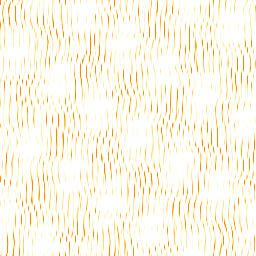
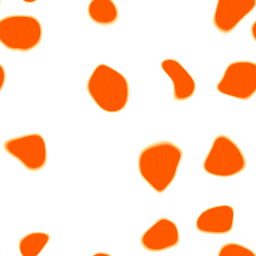
Add restrained Shipwreck floor puddle material

diff --git a/tools/materials/generate_material_maps.py b/tools/materials/generate_material_maps.py
@@ -595,6 +595,34 @@ def finish_at(name,u,v):
     return finish
 
 
+def wet_floor_film(u,v):
+    def random(x,y,salt):
+        value = (x*374761393+y*668265263+salt*2246822519)&0xffffffff
+        value = ((value^(value>>13))*1274126177)&0xffffffff
+        return ((value^(value>>16))&0xffff)/65535.
+    u += .04*noise(u,v,9)
+    v += .04*noise(u+.37,v+.59,9)
+    gx,gy = math.floor(u*4),math.floor(v*4)
+    film = 0.
+    for y in range(gy-1,gy+2):
+        for x in range(gx-1,gx+2):
+            cell_x,cell_y = x%4,y%4
+            if random(cell_x,cell_y,0) > .55:
+                continue
+            cx = (cell_x+.5+.75*(random(cell_x,cell_y,1)-.5))/4
+            cy = (cell_y+.5+.75*(random(cell_x,cell_y,2)-.5))/4
+            dx = (u-cx+.5)%1-.5
+            dy = (v-cy+.5)%1-.5
+            angle = 2*math.pi*random(cell_x,cell_y,3)
+            along = math.cos(angle)*dx+math.sin(angle)*dy
+            across = -math.sin(angle)*dx+math.cos(angle)*dy
+            radius_x = .055+.060*random(cell_x,cell_y,4)
+            radius_y = .040+.050*random(cell_x,cell_y,5)
+            distance = math.sqrt((along/radius_x)**2+(across/radius_y)**2)
+            film = max(film,min(1.,max(0.,(1.-distance)/.18)))
+    return film
+
+
 def raster(name,profile,width,height_px):
     normal,orm,mask = bytearray(),bytearray(),bytearray()
     for y in range(height_px):
@@ -615,12 +643,9 @@ def raster(name,profile,width,height_px):
             physical = surface not in ("flat","effect")
             normal.extend((byte(.5-dx/(2*length)),byte(.5-dy/(2*length)),byte(.5+1/(2*length)),255 if physical else 0))
             wet = 0.
-            if surface == "wood_floor":
-                ridge = max(0.,h-.12)**2
-                patch = .48+.28*math.sin(2*math.pi*(5*u+2*v))+.24*math.cos(2*math.pi*(3*v-2*u))
-                patch += .16*math.sin(2*math.pi*(13*v+u))
-                wet = min(1.,ridge*max(0.,patch)*4.0)
-                roughness = .85-.33*wet+.025*h
+            if surface == "wood_floor" and name in ("wood_floor","d03b01","d03b04"):
+                wet = wet_floor_film(u,v)
+                roughness = .85-.50*wet+.015*h
             elif surface == "stone" and (name in WET_ATLASES or any(inside(u*256,v*256,region) for region in WET_REGIONS.get(name,[]))):
                 patch = math.sin(2*math.pi*(3*u+.27*math.sin(2*math.pi*2*v))) + .55*math.cos(2*math.pi*(2*v-u))
                 wet = min(1.,max(0.,(patch-.12)*1.5))
@@ -734,7 +759,8 @@ def validate(files):
         if len(raw) != height*(width*4+1) or any(raw[y*(width*4+1)] != 0 for y in range(height)):
             raise ValueError(f"PNG raster mismatch: {name}")
         images[name] = width,height
-        if name in ("d03b07_normal.png","d03b07_orm.png","d03b07_regions.png"):
+        if name in ("d03b07_normal.png","d03b07_orm.png","d03b07_regions.png",
+                    "wood_floor_orm.png","d03b01_orm.png","d03b04_orm.png"):
             checked_rasters[name] = b"".join(raw[y*(width*4+1)+1:(y+1)*(width*4+1)] for y in range(height))
     references = set()
     def record(entry):
@@ -783,6 +809,17 @@ def validate(files):
     hatch_red = [sample("normal",x/256,y/256)[0] for y in range(136,248,4) for x in range(8,120,4)]
     if min(hatch_red) >= 127 or max(hatch_red) <= 128:
         raise ValueError("Corrosion detail must vary across both axes, not form brushed stripes")
+    for name in ("wood_floor","d03b01","d03b04"):
+        data = checked_rasters[name+"_orm.png"]
+        pixels = [data[i:i+4] for i in range(0,len(data),4)]
+        film = [pixel for pixel in pixels if pixel[3] >= 250]
+        dry = [pixel for pixel in pixels if pixel[3] <= 12]
+        if not .10 <= len(film)/len(pixels) <= .30 or len(dry)/len(pixels) < .60:
+            raise ValueError(f"{name}: wet film must form sparse islands")
+        if any(pixel[2] != 0 for pixel in pixels):
+            raise ValueError(f"{name}: floor film must stay dielectric")
+        if not all(75 <= pixel[1] <= 110 for pixel in film) or not all(205 <= pixel[1] <= 230 for pixel in dry):
+            raise ValueError(f"{name}: puddles and dry timber require distinct roughness")
 
 
 def main():

diff --git a/docs/ENHANCED_LIGHTING_STATUS.md b/docs/ENHANCED_LIGHTING_STATUS.md
@@ -12,7 +12,7 @@ The executable-relative `assets/materials` package contains 702 original RGBA8 P
 
 Texture fingerprints select the correct material maps when names are reused by different dungeon or boss atlases. Unknown fingerprints are reported as unresolved rather than silently inheriting another variant. The audited resource union includes all front/back Shipwreck and Gallery enemy placement sets, environment packs and boss variants, the six playable character sets and 111 existing weapon texture names. This is an offline coverage audit; runtime fixtures exercise a subset, not every possible floor and object combination. Eight offline/runtime RGBA spot checks matched byte-for-byte.
 
[2 lines of base64/hex data omitted]
 
 ## Shipwreck glint and deck correction
 
@@ -25,6 +25,14 @@ A CPU reconstruction using the captured geometry, textures and light constants c
 A separate integration regression made damp-wood albedo absorption follow sparse wet-film alpha. About 64% of deck texels then bypassed absorption, exaggerating pale painted fibres. The shared primary/ray-hit evaluator now applies moist-substrate absorption to eligible upward wood independently of wet-film coverage, reduced by metalness. Wet-film roughness, local sheen and ray eligibility retain their own controls.
 
 Matched Shipwreck surface-detail off/full captures showed that the broad pale deck streaks persisted without normal mapping. The subsequent same-view substrate correction darkened those fibres while retaining rough, non-mirror boards. Left/right camera rotations also showed the corrected deck without a broad white patch; the specific hatch from the RenderDoc capture was not visible in those views. Local evidence is in `.kazarov/materials-shipwreck-detail-{off,full}-800.png`, `materials-shipwreck-substrate-800.png` and `shipwreck-yaw-{left,right}-536.png`.
+
+## Shipwreck floor film
+
+The Shipwreck WoodFloor ORM maps (`wood_floor`, `d03b01` and `d03b04`) now describe smaller irregular film pools. The atlas has about 15.7% full-film coverage before the world-space island mask; only upward Shipwreck floor with the wet-surface flag receives it. The shared material evaluator slightly darkens the film-covered wood and flattens its detail normal while leaving most board grain and the surrounding damp substrate intact. Strong film uses four fixed rough reflection directions and restrained dielectric response to the recorded lamps, with no coherent reflection on dry wood. It does not add broad white highlights to the corroded `d03b07` hatch.
+
+Same-camera 1280-by-960 captures show subtle darker puddle footprints, a faint cool sheen and a few localized warm glints without the large pale patches rejected during tuning: `.kazarov/puddles-baseline-standard.png` versus `puddles-balanced-final-standard.png`, and the turning view `puddles-balanced-final-yaw536.png`. RT-on and RT-off final Shipwreck runs exited successfully; the latter loaded the same 476 material images and 316 exact records. The effect is restrained in this dim room and does not fully match the prominent water reflections in the reference. A temporary diagnostic confirmed that visible WoodFloor fragments receive the sparse film, and it was removed before the final build.
+
+An intermediate reflection-only build increased profiled reflection queries from about 2.4 thousand to 82.6 thousand per display frame in the sampled Shipwreck route. Late GPU ray-draw spans were about 8.8–8.9 ms before and 8.6–8.7 ms after in separate runs; this small inverse difference is measurement variation, not evidence of a speedup. The final shader retains the same four-ray film gate but its added lamp response was not separately profiled. The final isolated Windows Release compiled all three enhanced fragment variants. A Gallery-of-Time corridor frame at `.kazarov/puddles-balanced-final-gallery-corridor650.png` is pixel-identical to the previous accepted `gallery-fog-final-corridor-650.png`.
 
 ## Atmosphere and presentation checks
 

diff --git a/assets/materials/README.md b/assets/materials/README.md
@@ -29,6 +29,18 @@ still gate wetness. Gallery wet coverage is authored for cracked floor atlases
 and the rightmost quarter of its mixed brick/floor atlas. Its plaster, brick,
 carpet and architectural trim remain dry.
 
+Shipwreck `wood_floor`, `d03b01` and `d03b04` ORM alpha describes irregular
+islands of a thin water film. Their dry timber stays near 0.85 roughness and
+the film interiors near 0.35; both remain dielectric. The shader combines
+this UV-space film with a stable warped world-position field and upward-face
+eligibility so repeated planks do not show identical puddles. Damp wood
+albedo absorption describes the moist substrate across eligible floorboards
+independently of this sparse film. Within the film islands, the shader
+attenuates diffuse albedo toward 72% while keeping the reflected response
+separate. Only strong film receives a restrained, rough dielectric sheen;
+the surrounding timber has no mirror finish. Wet wall boards, boss-room variants and
+the separate corroded `d03b07` fitting are excluded.
+
 Shipwreck atlas `d03b07` includes a riveted, corroded hatch plate used by both
 floor and ceiling triangles; UV `(0.142952, 0.584398)` lies inside that plate.
 Its oxide/paint finish retains the metal semantic but uses roughness 0.88,
